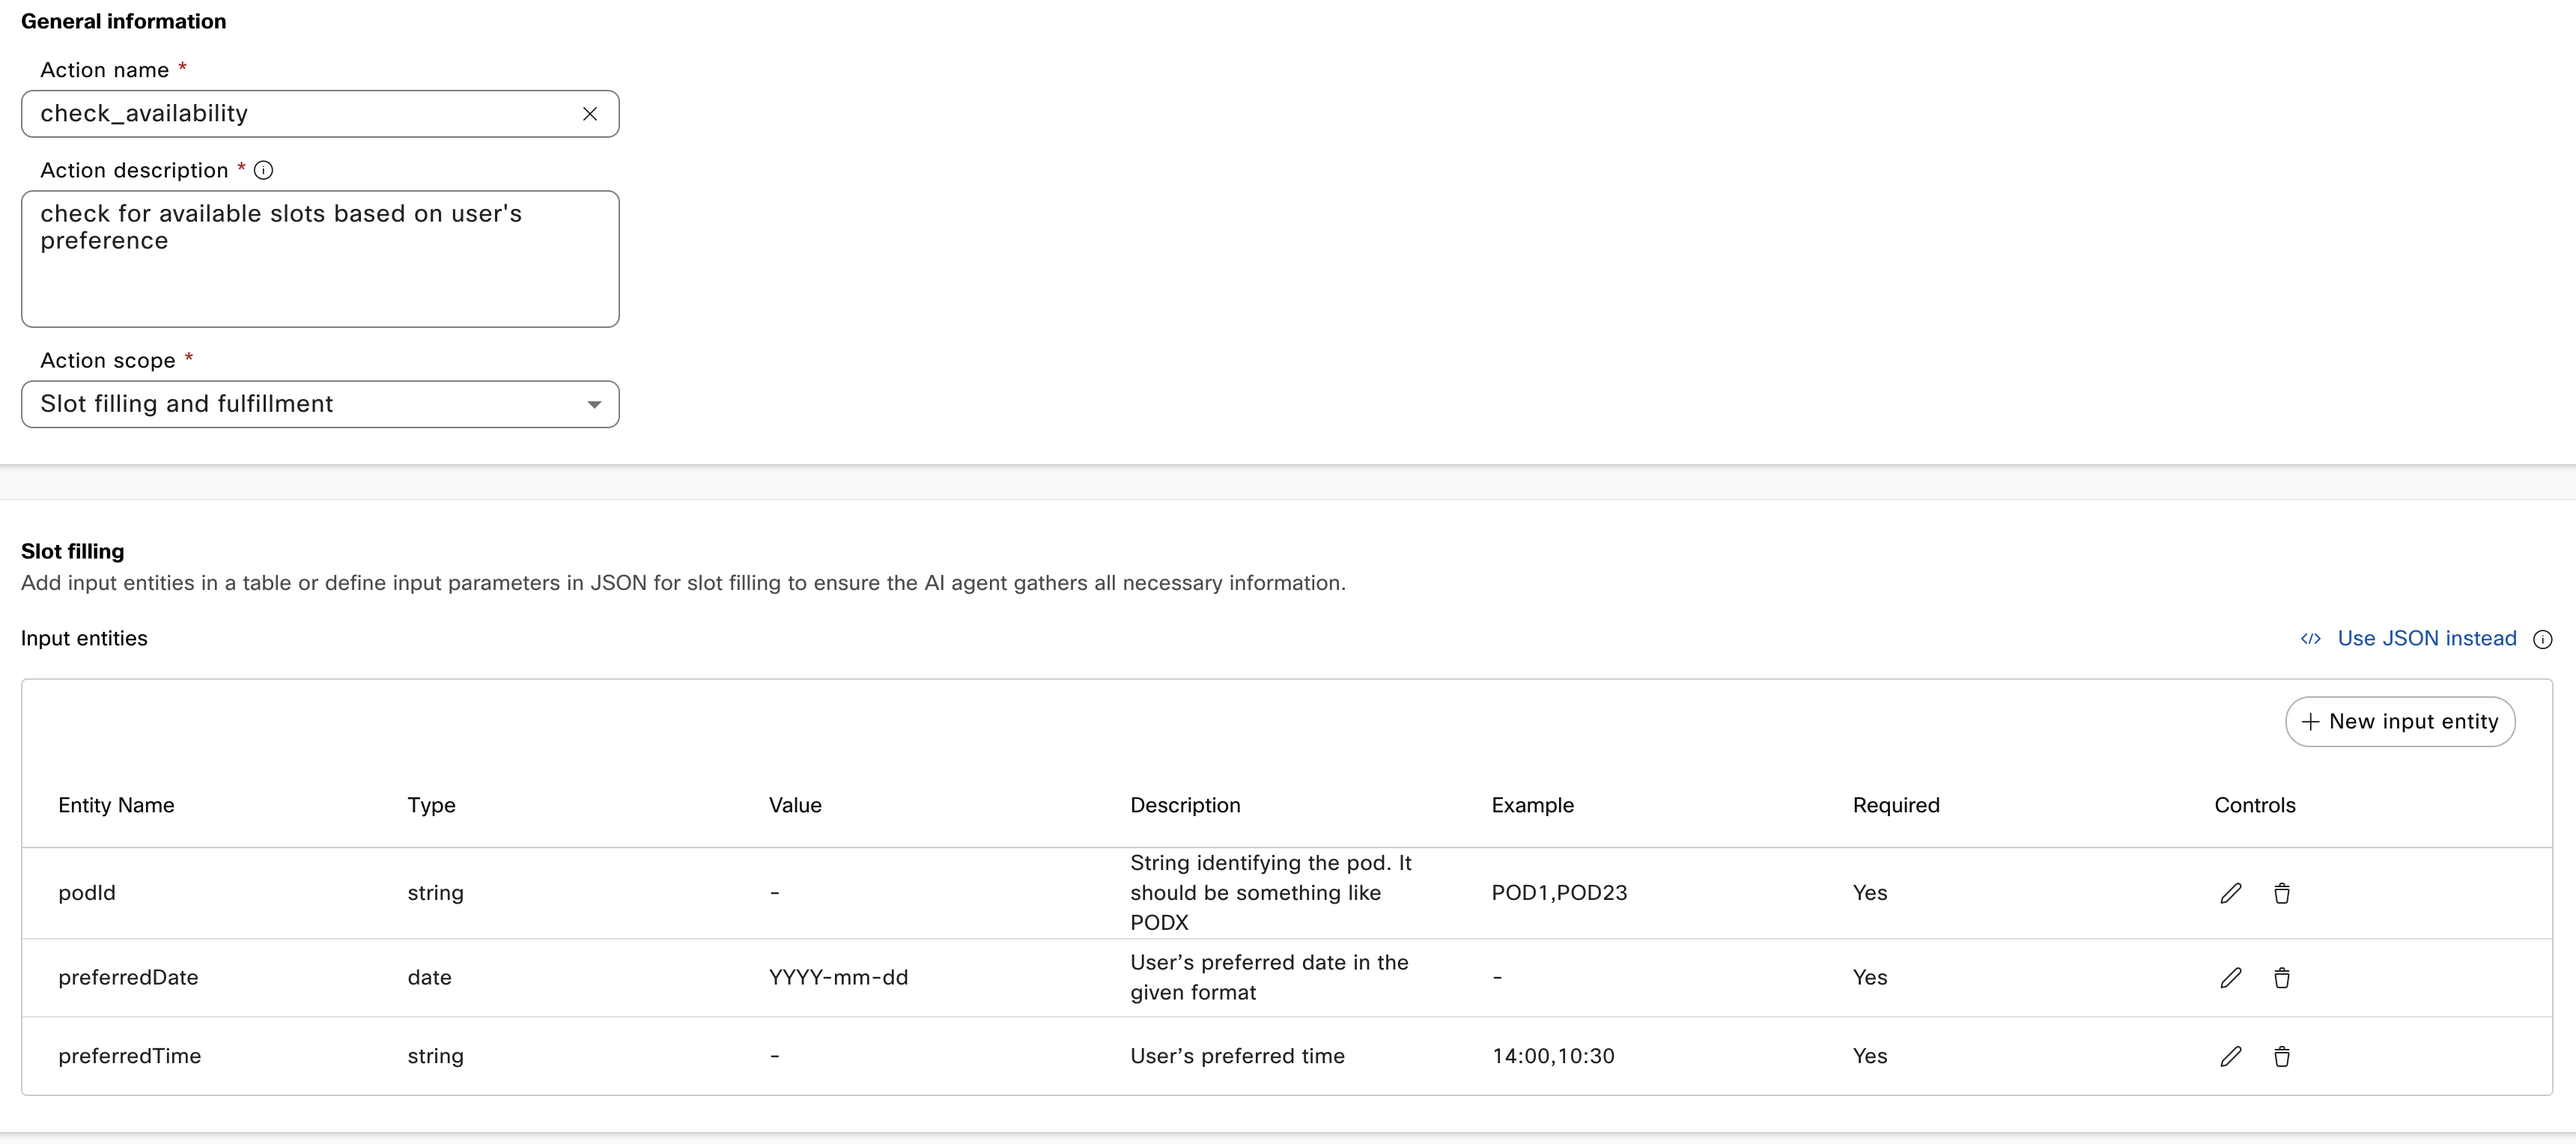
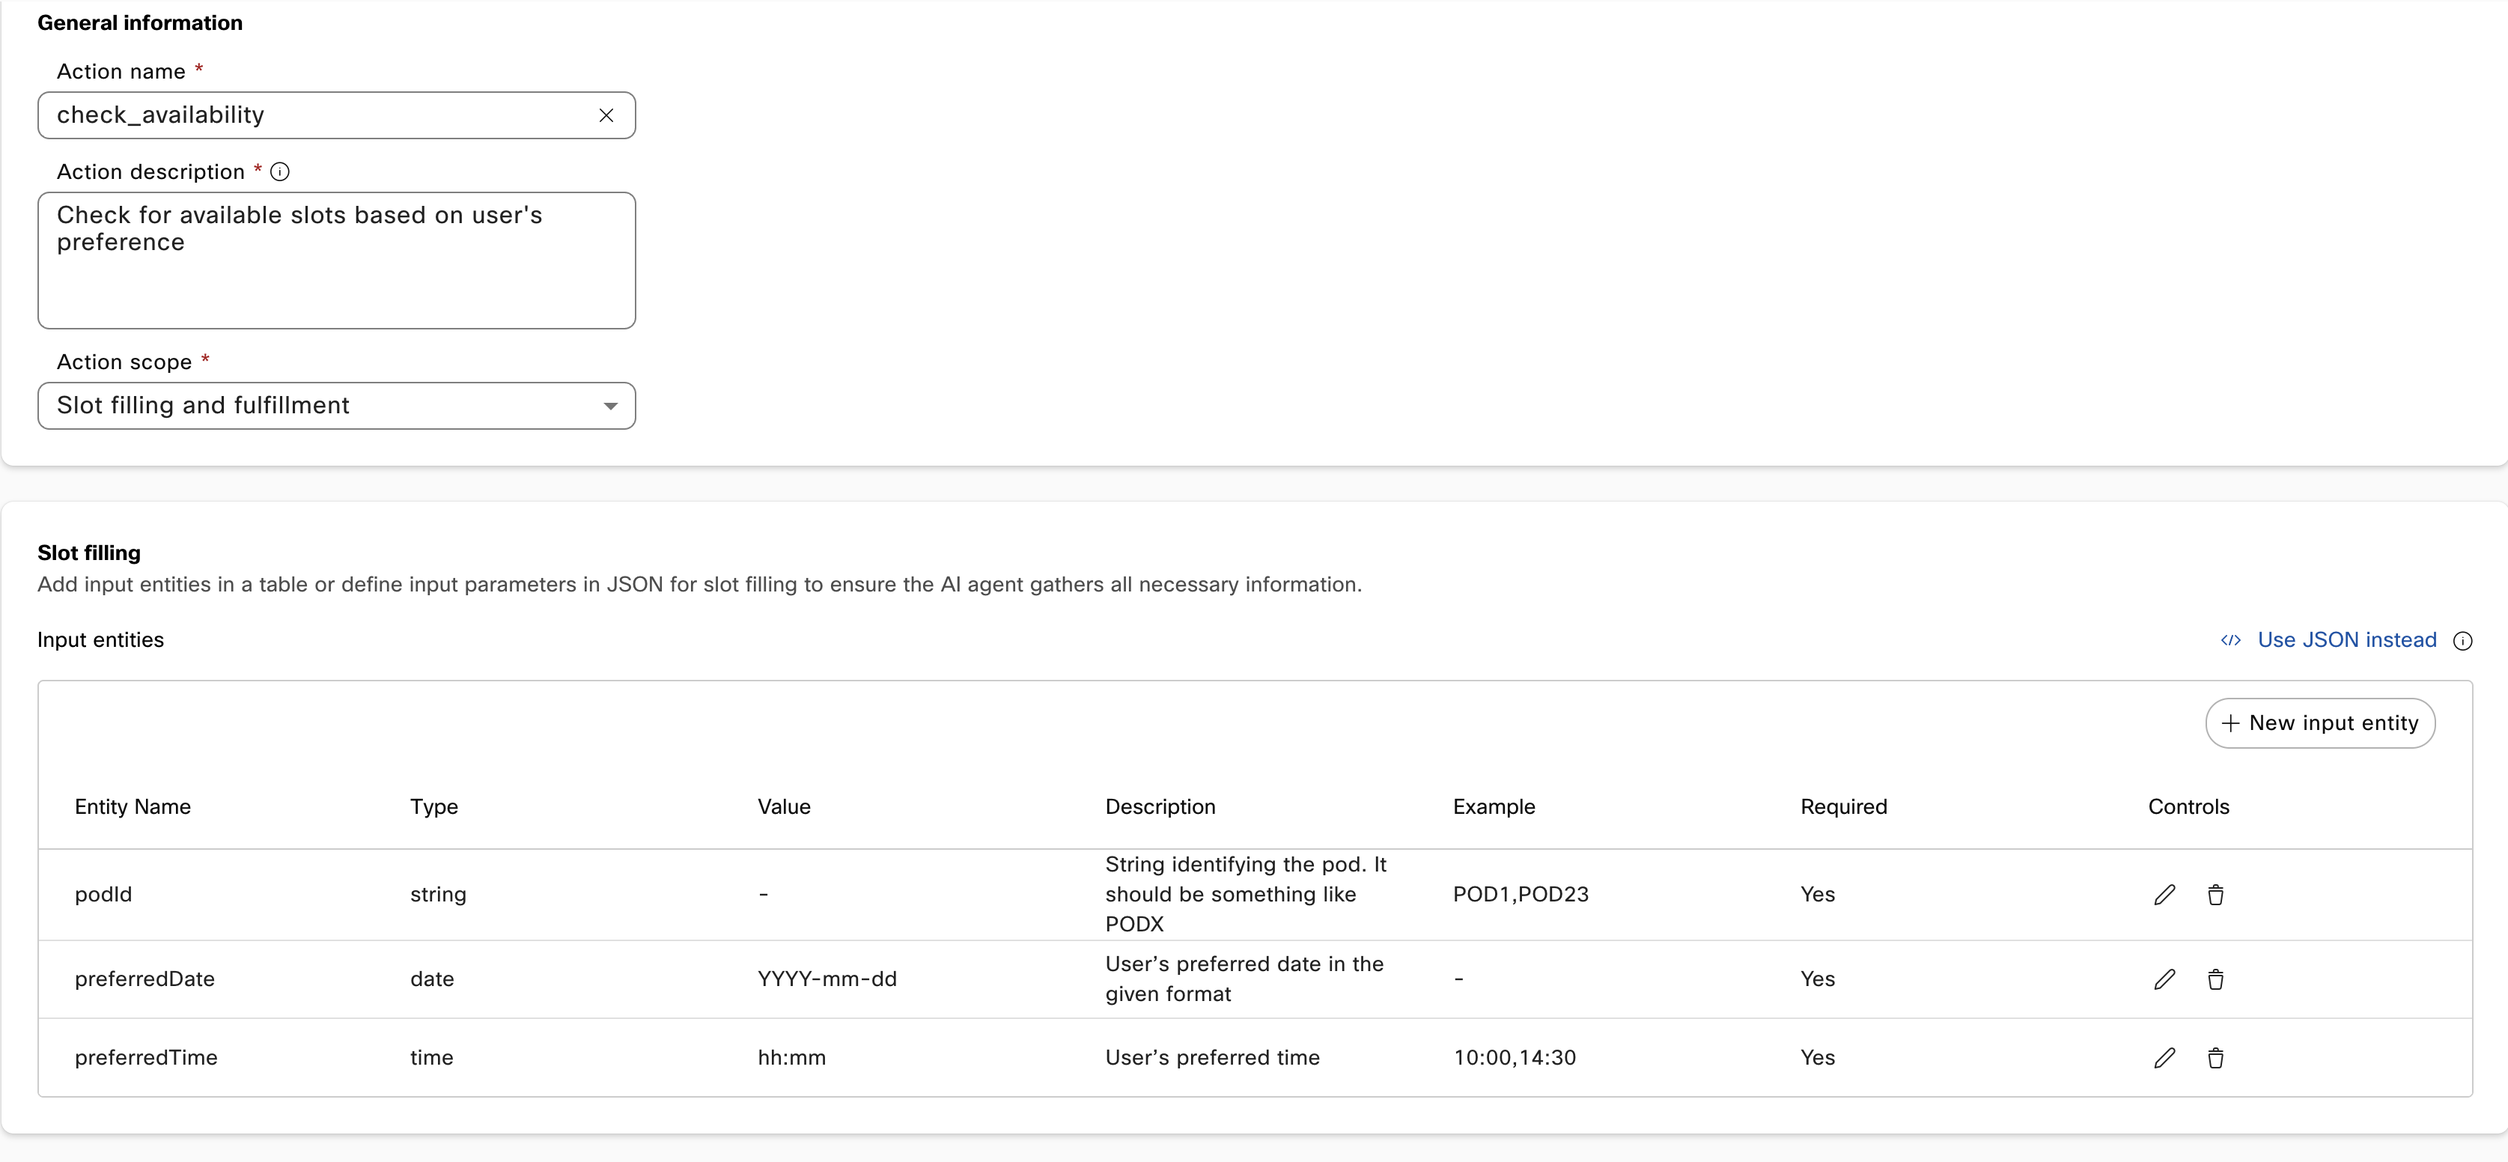
moving strings to times

diff --git a/docs/04-ai-agent-create.md b/docs/04-ai-agent-create.md
@@ -148,10 +148,14 @@ In this section, you will learn how to set up your agent to perform powerful act
         ```
         preferredTime
         ```
-    - **Entity Type:** _String_
+    - **Entity Type:** _Time_
     - **Entity Description**
         ```
         User’s preferred time
+        ```
+    - **Value**
+        ```
+        hh:mm
         ```
     Add two **Entity Examples**, like _10:00_ and _14:30_.
     
@@ -219,10 +223,14 @@ In this section, you will learn how to set up your agent to perform powerful act
         ```
         timeSlot
         ```
-    - **Entity Type:** _String_
+    - **Entity Type:** _Time_
     - **Entity Description**
         ```
         Date and time of the available slot
+        ```
+    - **Value**
+        ```
+        hh:mm
         ```
     
     The field **Required** should be _Yes_, click **Add** to finish the input setup
@@ -238,6 +246,8 @@ In this section, you will learn how to set up your agent to perform powerful act
 ## Fine-tuning your AI Agent
 
 You can test how your AI Agent works before you add it to any Flow. Go back to the **AI Agent Studio**, select your Bot, Click on 💬 **Preview**, and start the conversation with 'Hi'.
+
+Appointments can be booked any day in the week, from 9AM to 5PM.
 
 Learning how Webex AI Agent work is a important section of this lab, spend some time testing what you built if you like. Here you have some examples:
 
